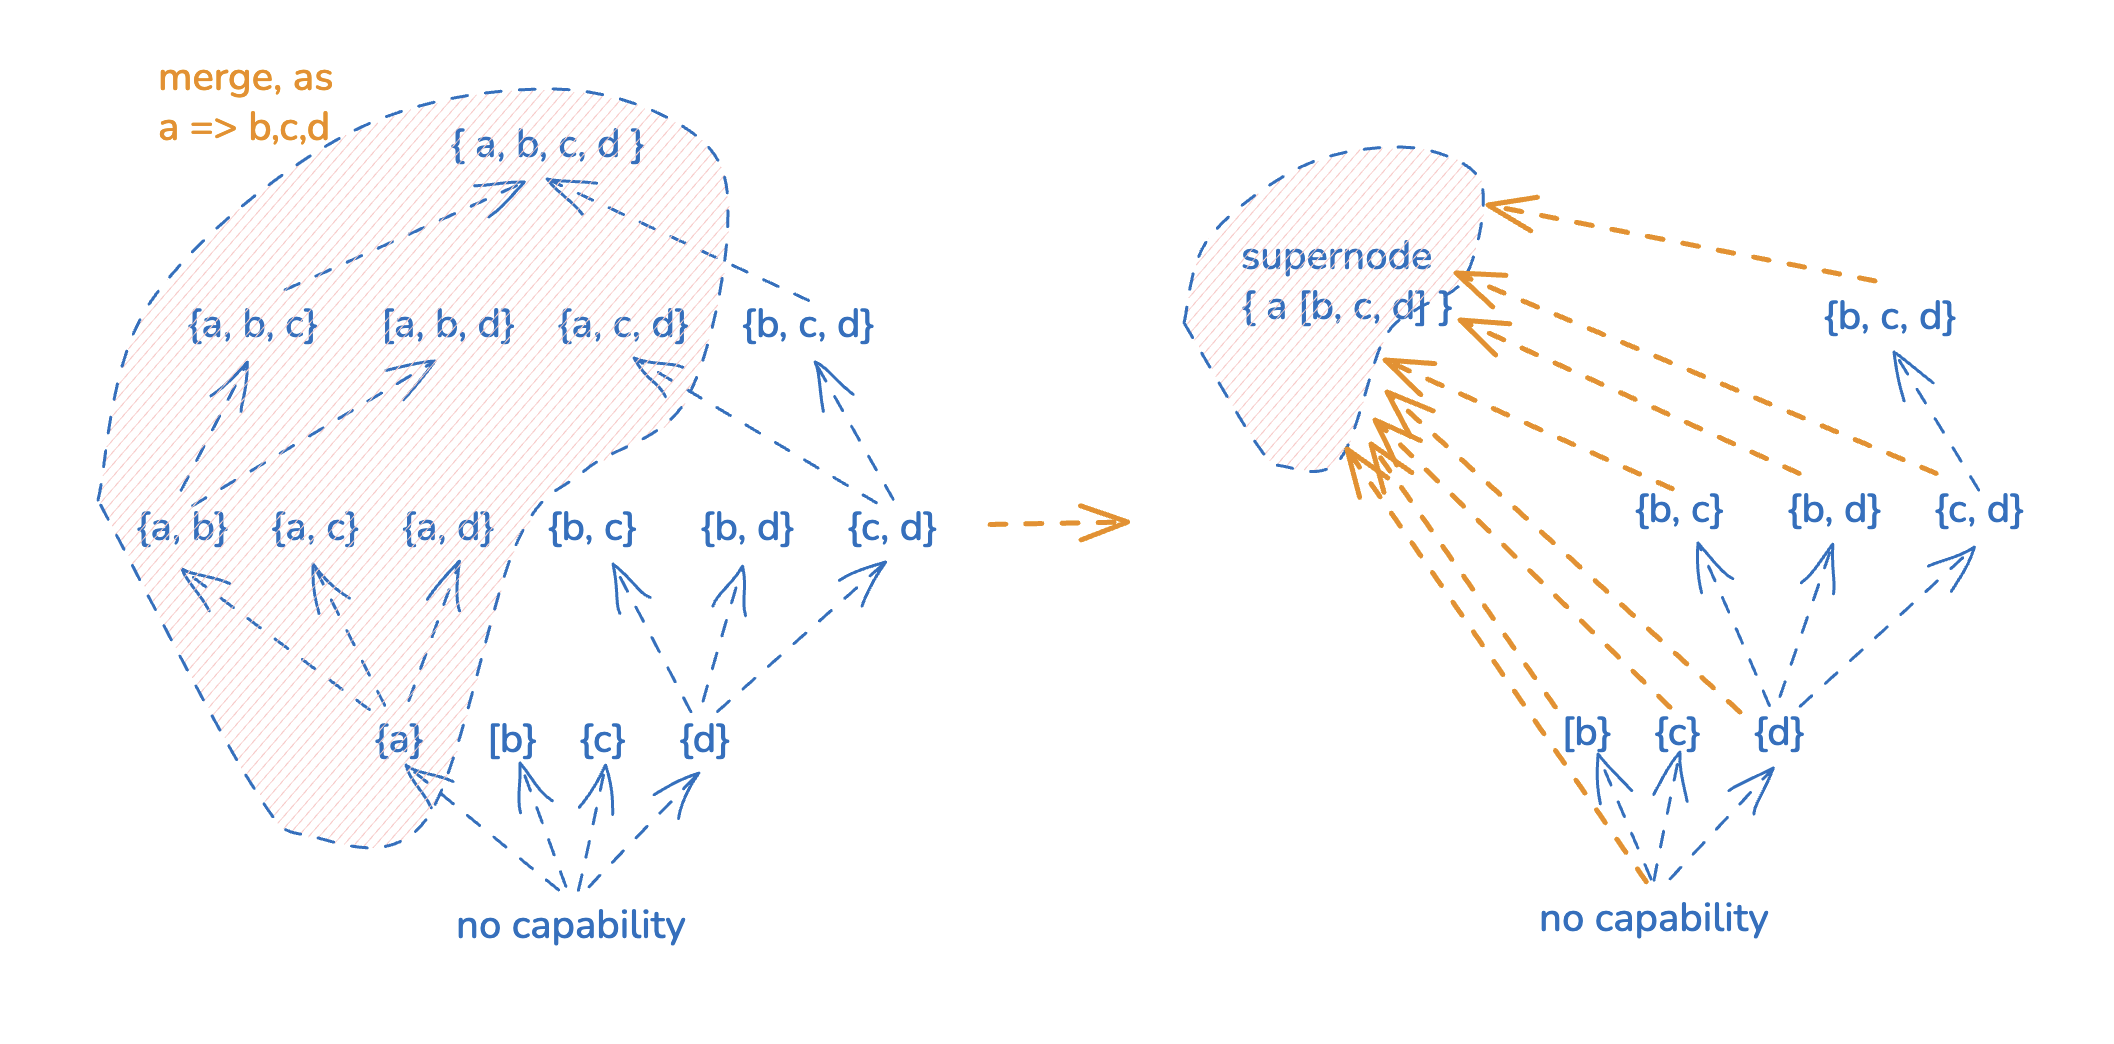
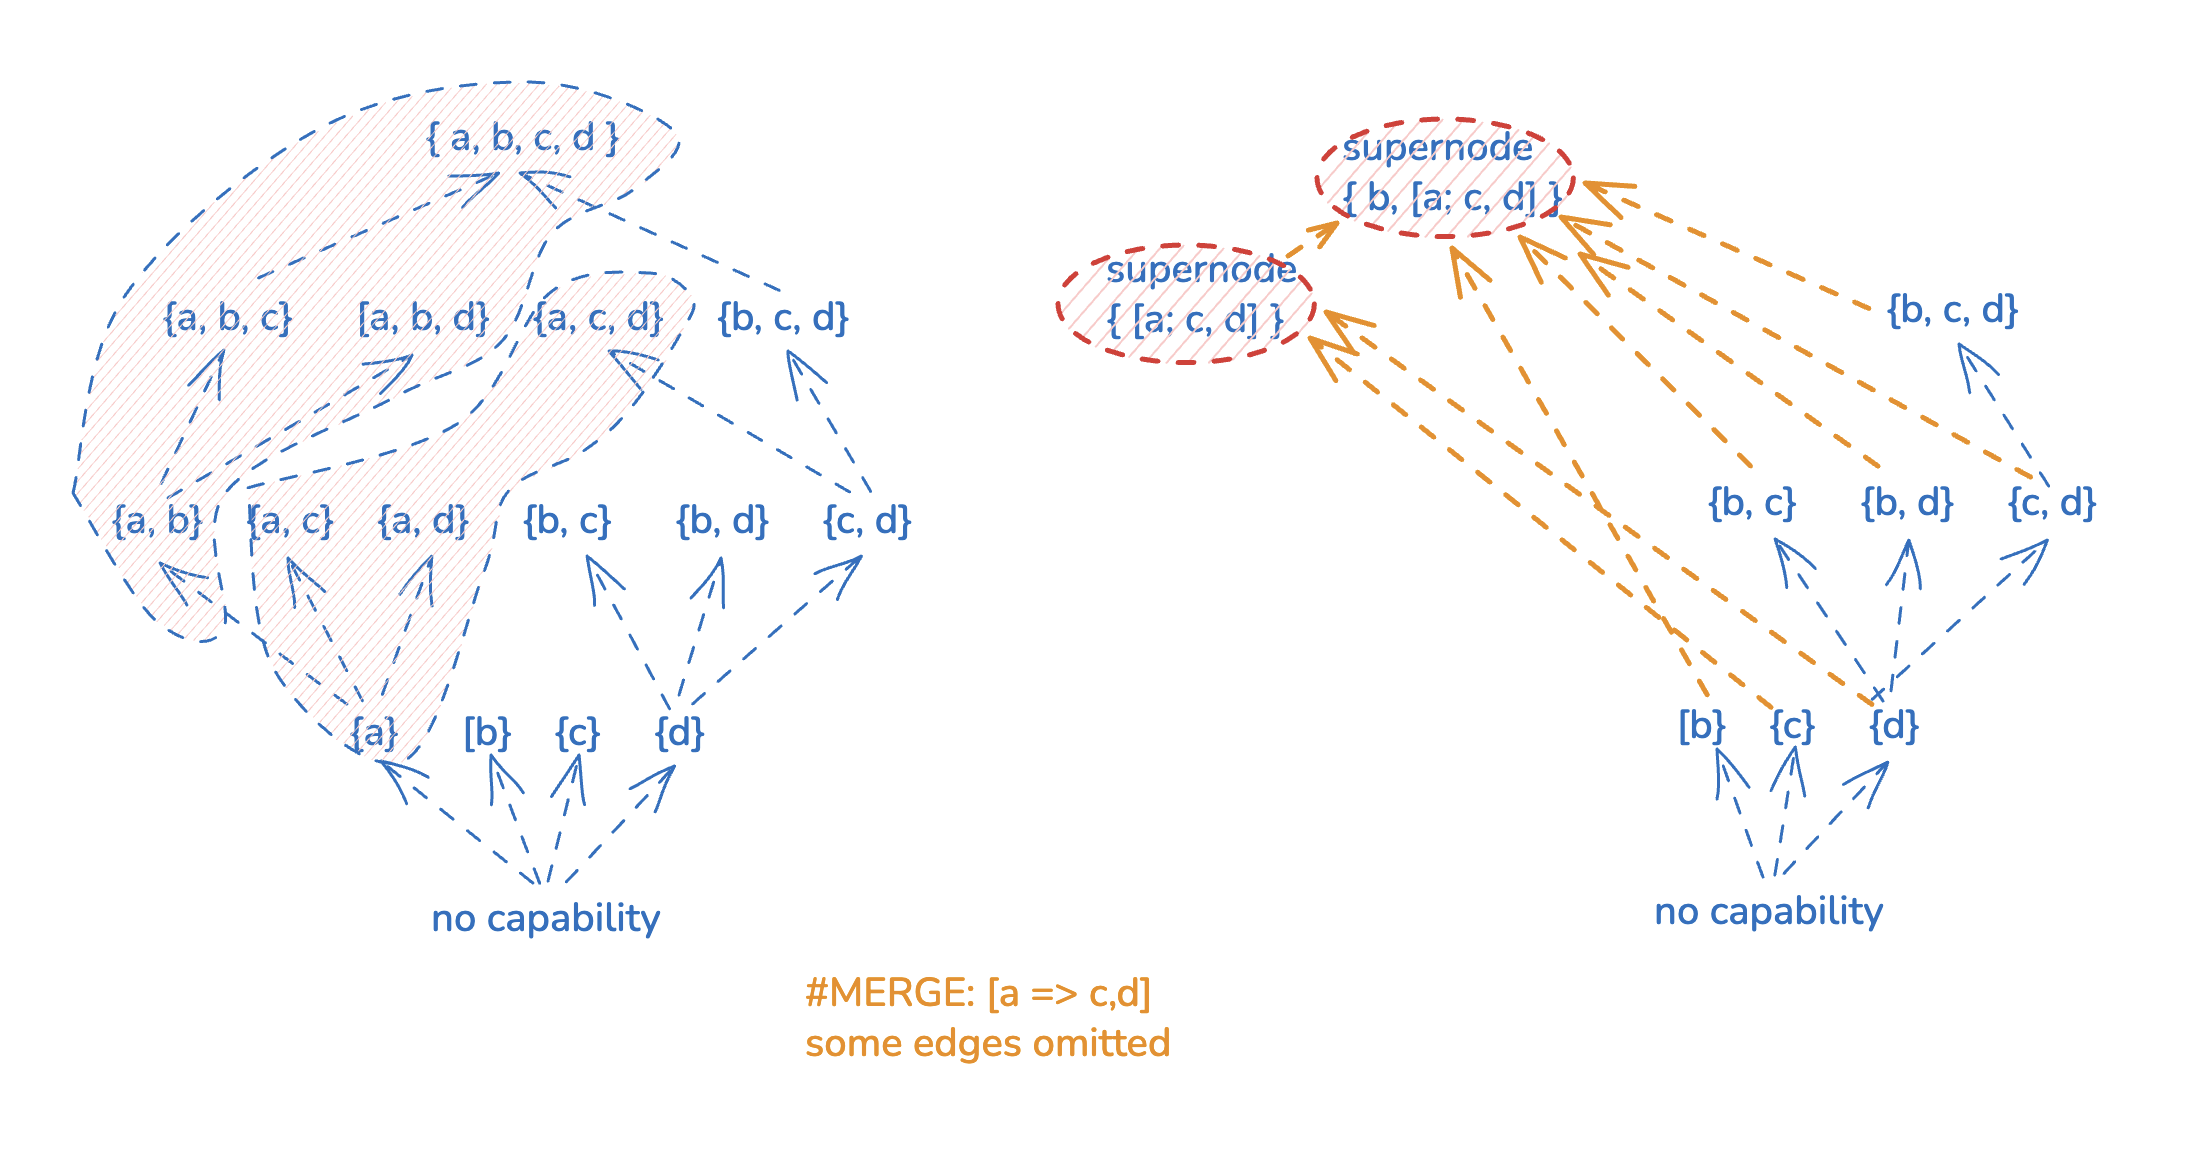
update

diff --git a/DAGs.md b/DAGs.md
@@ -1,9 +1,11 @@
 ---
 title: On DAGs and passage of time
 ---
-Computer security people often use the following terms to describe movements in the hacking process: "vulnerability chaining", "horizontal/lateral movement", "escalation", etc. If there's some satisfaction in using those terms, it's because these terms refer to the processes' _internal structure_. This internal structure is very intuitive, even if it wasn't ever written down explicitly. 
+Computer security people often use the following terms to describe events in a computer breach: "vulnerability chaining", "horizontal/lateral movement", "escalation", etc. If there's some satisfaction in using those terms, that's because these terms refer to the processes' _internal structure_. This internal structure of the process attackers follow is very intuitive, even if it isn't noted down explicitly. 
 
-In this blog post, we look at what that underlying structure looks like. The structure is a restricted variant of acyclic graph (DAGs), morphed into a simpler structure with some graph nodes merged. Apart from that, in this blog post, based on our practical application of (restricted) DAGs, we hope to provide a lookout from which the full DAG generality becomes (at least partially) visible. 
+We look at what this underlying structure or process looks like. In general, there are two axioms that shape process leading to a system breach: (1) attacker's movements are typically _cumulative_ and (2) the attacker's capability undergoes sudden changes (in terms of suddenly gaining vast capability). 
+
+What mathematical description best describes such a process? We set out to find that structure in this blog post. 
 
 ### 1. Attackers don't play Mahjong 
 
@@ -13,15 +15,14 @@ One could consider that a privilege escalation process encountered in computer s
 
 However, Mohjang Solitaire follows a certain _steady pace_; unlocking Mahjong pieces does not include rapid state changes. This is where the Mahjong Solitaire analogy with the computer hacking fails. 
 
-The privilege escalation process follows a specific dynamic, not followed by some other processes out there. That dynamic has at least the following two properties:
+As mentioned, the privilege escalation process follows a specific dynamic, not followed by some other processes out there. That dynamic has at least the following two properties:
 
 * It's usually _cumulative_ in terms of attacker's capability 
 * it includes _sudden, dramatic changes_
 
-
 ### 2. Unexpected state changes
 
-The first thing that comes to mind when representing a process with rapid changes is a transformation, over some state. Consider the following state trail:
+The first thing that comes to mind when representing a process with rapid changes is a transformation, over some state. The mapping is monotone, as in bits only activate, they do not deactivate. Consider the following state trail:
 
 ```
 time         state
@@ -53,32 +54,50 @@ The problem with the previous section is that it requires a `p_i => p_i-1` for a
 <p align="center"> <img src="other-pics/DAGs/power-set.png" alt="The power set or Boolean cube graph"/></p>
 The power set forms a graph in which movement from the bottom towards the top of the graph signifies privilege escalation. For example, a file read on the local system may provide the attacker the ability to read a configuration file and authenticate to related database; this is represented as movement from `a` to `{a,b}`. 
 
-Some privilege escalations are known to be impossible. A pair of capabilities may refer to independent parts of the system. In practice, these routes will simply be uninhabited. Those edges can be removed from the picture, which simplifies the graph. It should be noted that the possibility of privilege escalation is probabilstic in nature. For example, an XSS payload may or may not execute. A phishing attempt succeeds with a certian probability. An ASLR bypass such as a sprayed heap may yield to a desired outcome, or may not. An LLM may or may not identify an exploit that allows escalation. 
+A general note about graphs: each movement the power-set graph is "coordinate-wise" in the sense that from every node it's possible to "choose" a capability and add it to the set. This is is why [Boolean hyper-cubes](https://en.wikipedia.org/wiki/Hypercube_graph) are a good alternative way of representing power sets. Capabilities are identified with positions in an n-tuple and from each capability set. It's possible to independently "unlock" or "lock" any capability from any node in the graph.
 
-A meta note about graphs: each movement the power-set graph is "coordinate-wise", which is why [Boolean hyper-cubes](https://en.wikipedia.org/wiki/Hypercube_graph) are a good alternative way of representing power sets. Capabilities are identified with positions in an n-tuple and from each capability set, it's possible to independently "unlock" or "lock" any other capability (flipping the bit at that position or moving across an edge in the hyper cube). All in all, power-set graphs are a heavily restricted variants of DAGs, which are a very general notion.
+### 3. Deleting impossible edges
+
+It should be noted that the possibility of privilege escalation is probabilstic in nature. For example, an XSS payload may or may not execute. A phishing attempt succeeds with a certian probability. An ASLR bypass such as a sprayed heap may yield to a desired outcome, or may not. An LLM may or may not identify an exploit that allows escalation. 
+
+That also means that some privilege escalations are known to be impossible, or simply don't make any sense in reality. A pair of capabilities may refer to completely independent system parts. In practice, these routes will simply be uninhabited over different attack attempts.
+
+Such edges can be removed from the picture. You could say this _simplifies_ the graph, but you could also say deleted edges make the graph more complicated. The latter is probably true, as the graph is not the Boolean hypercube anymore and dependencies are introduced. The corresponding monotone Boolean function is more unpredictable. 
 
 ### 4. Quotient of the power set graph
 
-Our previous model fails to capture the "avalanche" property. A full (or large) set of capabilities is often times gained suddenly, in one passage. Paradoxically, in order to gain a single capability (such as, read from a database), often times, the attacker gains the full set of capabilities.
+Our previous partitive set graph fails to capture the "avalanche" property. A full (or large) set of capabilities is often times gained suddenly, in one passage. Paradoxically, in order to gain a single capability (such as, read from a database), often times, the attacker gains the full set of capabilities. 
 
-To model this, we add some back-propagating implications to the system. A capability "back-propagates" a number of other capabilities. For example, running code on the host system implies access to all application users, administrators as well as access to secrets in configuraiton files (three capabilities). This is modeled as `a => b, a => c, a => d` in the picture above. 
+For that, we add some back-propagations to the system. A capability "back-propagates" a number of other capabilities. For example, running code on the host system implies access to all application users, administrators as well as access to secrets in configuraiton files (three capabilities). This is represented as `a => b, a => c, a => d` in the picture above. 
 
-With this information present, the graph becomes highly redundant. Nodes should be merged; in graph theory, this is called a Strongly Connectected Component (SCC) [quotient graph](https://en.wikipedia.org/wiki/Strongly_connected_component) of the original graph. There's a single state that includes `a` now, as shown on the picture on the picture. The super node is, for example, unrestricted code execution on a host. 
+In the partitive set model, back-propagation dictates that nodes should be merged (see the notion of Strongly Connectected Component (SCC) [quotient graph](https://en.wikipedia.org/wiki/Strongly_connected_component)). Since `a => c, d`, each node with just `a` and any subset of `{c, d}` is merged into one node. Another merge that follows from this implication is a node that contains both `a, b` and any subset of `{c, d}`. 
 
 <p align="center"> <img src="other-pics/DAGs/merged.png" alt="Merging nodes to get a more accurate graph"/></p>
 
-Nodes are grouped so that only elements not "covered" by the letters present in the implication define unique nodes. 
+If the implication is of the form `X, a => B`, where `X` and  `B` are capability subsets, each subset of X will correpsond to a node with all `a U B` elements. 
 
-### 5. DAGs encode progressions
+### 5. Capabilities are not limited to network vantage points
 
-Instead of a conclusion, let's focus on what DAGs can represnt in general (not just power set graphs). Specifically, DAGs can be thought of models of arbitrary progressions:
+The good thing about this approach is that it's versatile in the following sense. Traditionally, computer security dealt with notions such as "user access to host X", "foot hold in internal network Y". These notions are intuitive as network-wise proximity maps to physical (metric) proximity when the network is represented as a graph on paper. 
 
-* DAGs have "orientation" and moving from the bottom to the top corresponds to passage of time
-* A DAG trail from bottom to top corresponds to a choice of events that may have taken place
+However, notions of capability also express the following:
+
+* The ability to leak i-th bit from j-th round of a cryptographic primitive (or j-th round in a protocol run) vs. the ability to extract a bit of a cryptographic key
+* Ability to run code in a browser sandbox on a mobile device vs. ability to run code in userland or kernel
+
+### 6. Conclusion
+
+In computer security breaches, the main currency we're dealing is privilege escalation. Everything else is a non-event. The narration of a computer security breach is a sequence of privilege escalations. 
+
+* (Connected) DAGs have "orientation" and moving from the bottom to the top corresponds to passage of time
+* A trail from the bottom to top corresponds to a choice of events that may have taken place
 * The more complicated the DAG is, the more subtle event inter-dependencies are 
-* Power-sets or Boolean hyper-cubes are heavily restricted DAGs
-* Specifically, power-set graphs prevent "dependencies" between coordinates; in power-set graphs, it's possible to "unlock" a capability regardless of the ongoing state 
+* Power-sets or Boolean hyper-cubes are heavily restricted DAGs; they allow "freely choosing" events at each step
 
-**The type of real-world progression we looked at was well-modeled by the  restricted form of DAGs (power set or Boolean hyper cube, which is the same thing). But what type of real-world progression _requires a richer DAG structure_?** Perhaps a DAG structure which involves interleaved connections and capability dependencies? That's an interesting question with which we'll end this blog post. Thank you for reading!
+**The type of real-world progression  we looked at corresponds to a "morphed" partitive set graph (Boolean hypercube or a partial ordering relation)?** [Order theory](https://en.wikipedia.org/wiki/Order_theory) is an area which looks at partial orders systematically; DAGs are wider than that in scope. Either way, order theory and DAGs do not burden themselves with identifying real-world models, they take right off into deriving abstract properties of these structures. 
 
-<!-- *I'd like to thank Miloš Milovanović for pointing out the importance of time in processes described by mathematics during our discussions in kafana Šindra in Belgrade.* -->
+Thank you for reading!
+
+Acknowledgments: TBD
+
+
